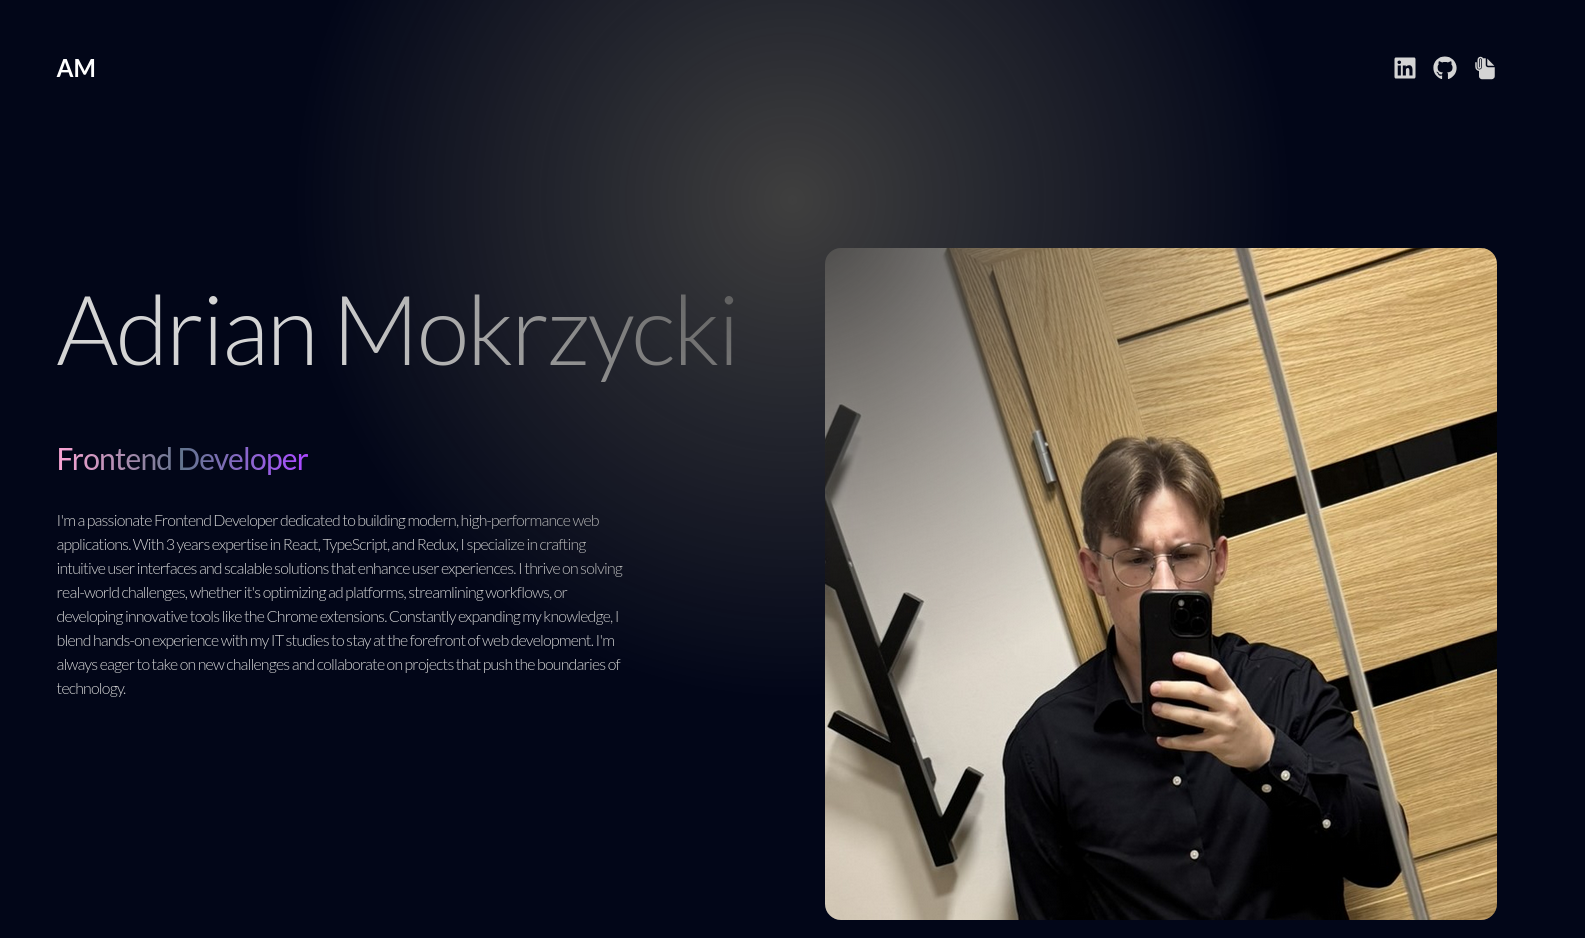
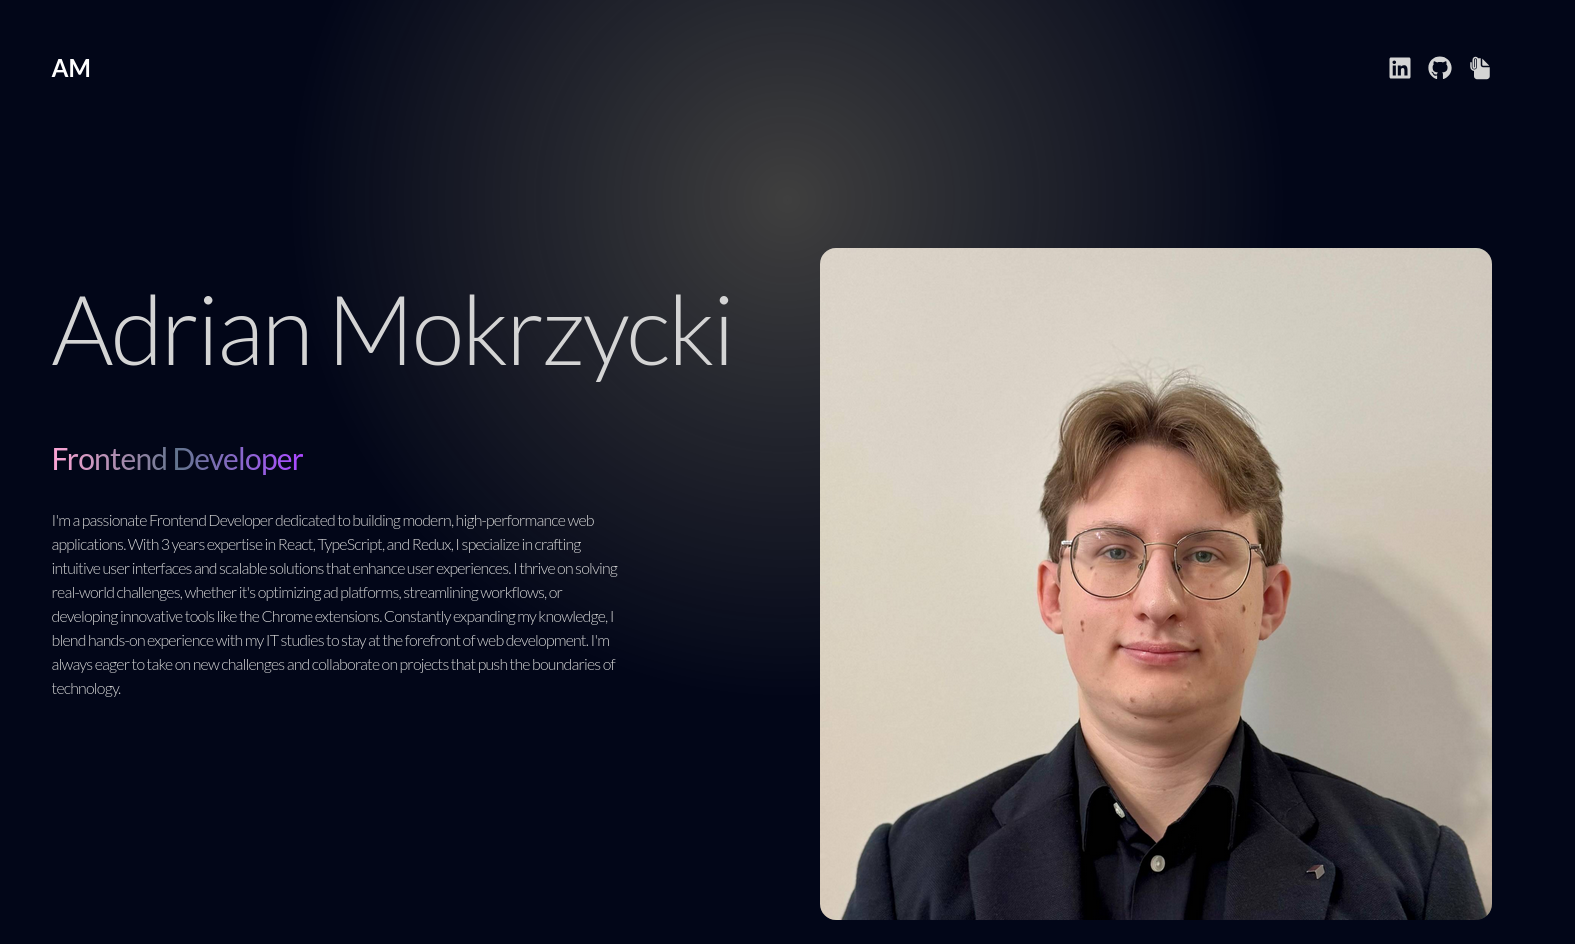
Updates from feedback

diff --git a/src/components/Technologies.tsx b/src/components/Technologies.tsx
@@ -49,7 +49,7 @@ function Technologies() {
         whileInView={{ opacity: 1, x: 0 }}
         initial={{ opacity: 0, x: -100 }}
         transition={{ duration: 1.5 }}
-        className={"flex flex-wrap items-center justify-center gap-4"}
+        className={"flex flex-wrap items-center justify-center lg:gap-4 gap-6"}
       >
         {technologies.map((tech) => (
           <motion.div
@@ -64,9 +64,13 @@ function Technologies() {
               repeatType: "reverse",
             }}
             key={tech.id}
-            className={"rounded-2xl border-4 border-neutral-800 p-4 text-7xl"}
           >
-            {tech.icon}
+            <div
+              className={"rounded-2xl border-4 border-neutral-800 p-4 text-7xl"}
+            >
+              {tech.icon}
+            </div>
+            <p className={"text-center text-neutral-400 mt-4"}>{tech.id}</p>
           </motion.div>
         ))}
       </motion.div>

diff --git a/src/components/Hero.tsx b/src/components/Hero.tsx
@@ -55,7 +55,7 @@ function Hero() {
               initial={{ x: 100, opacity: 0 }}
               animate={{ x: 0, opacity: 1 }}
               transition={{ duration: 1, delay: 1.2 }}
-              src={"/assets/profile-temp.jpeg"}
+              src={"/assets/profile.jpg"}
               alt={"Adrian Mokrzycki"}
               className={"rounded-2xl"}
             />
